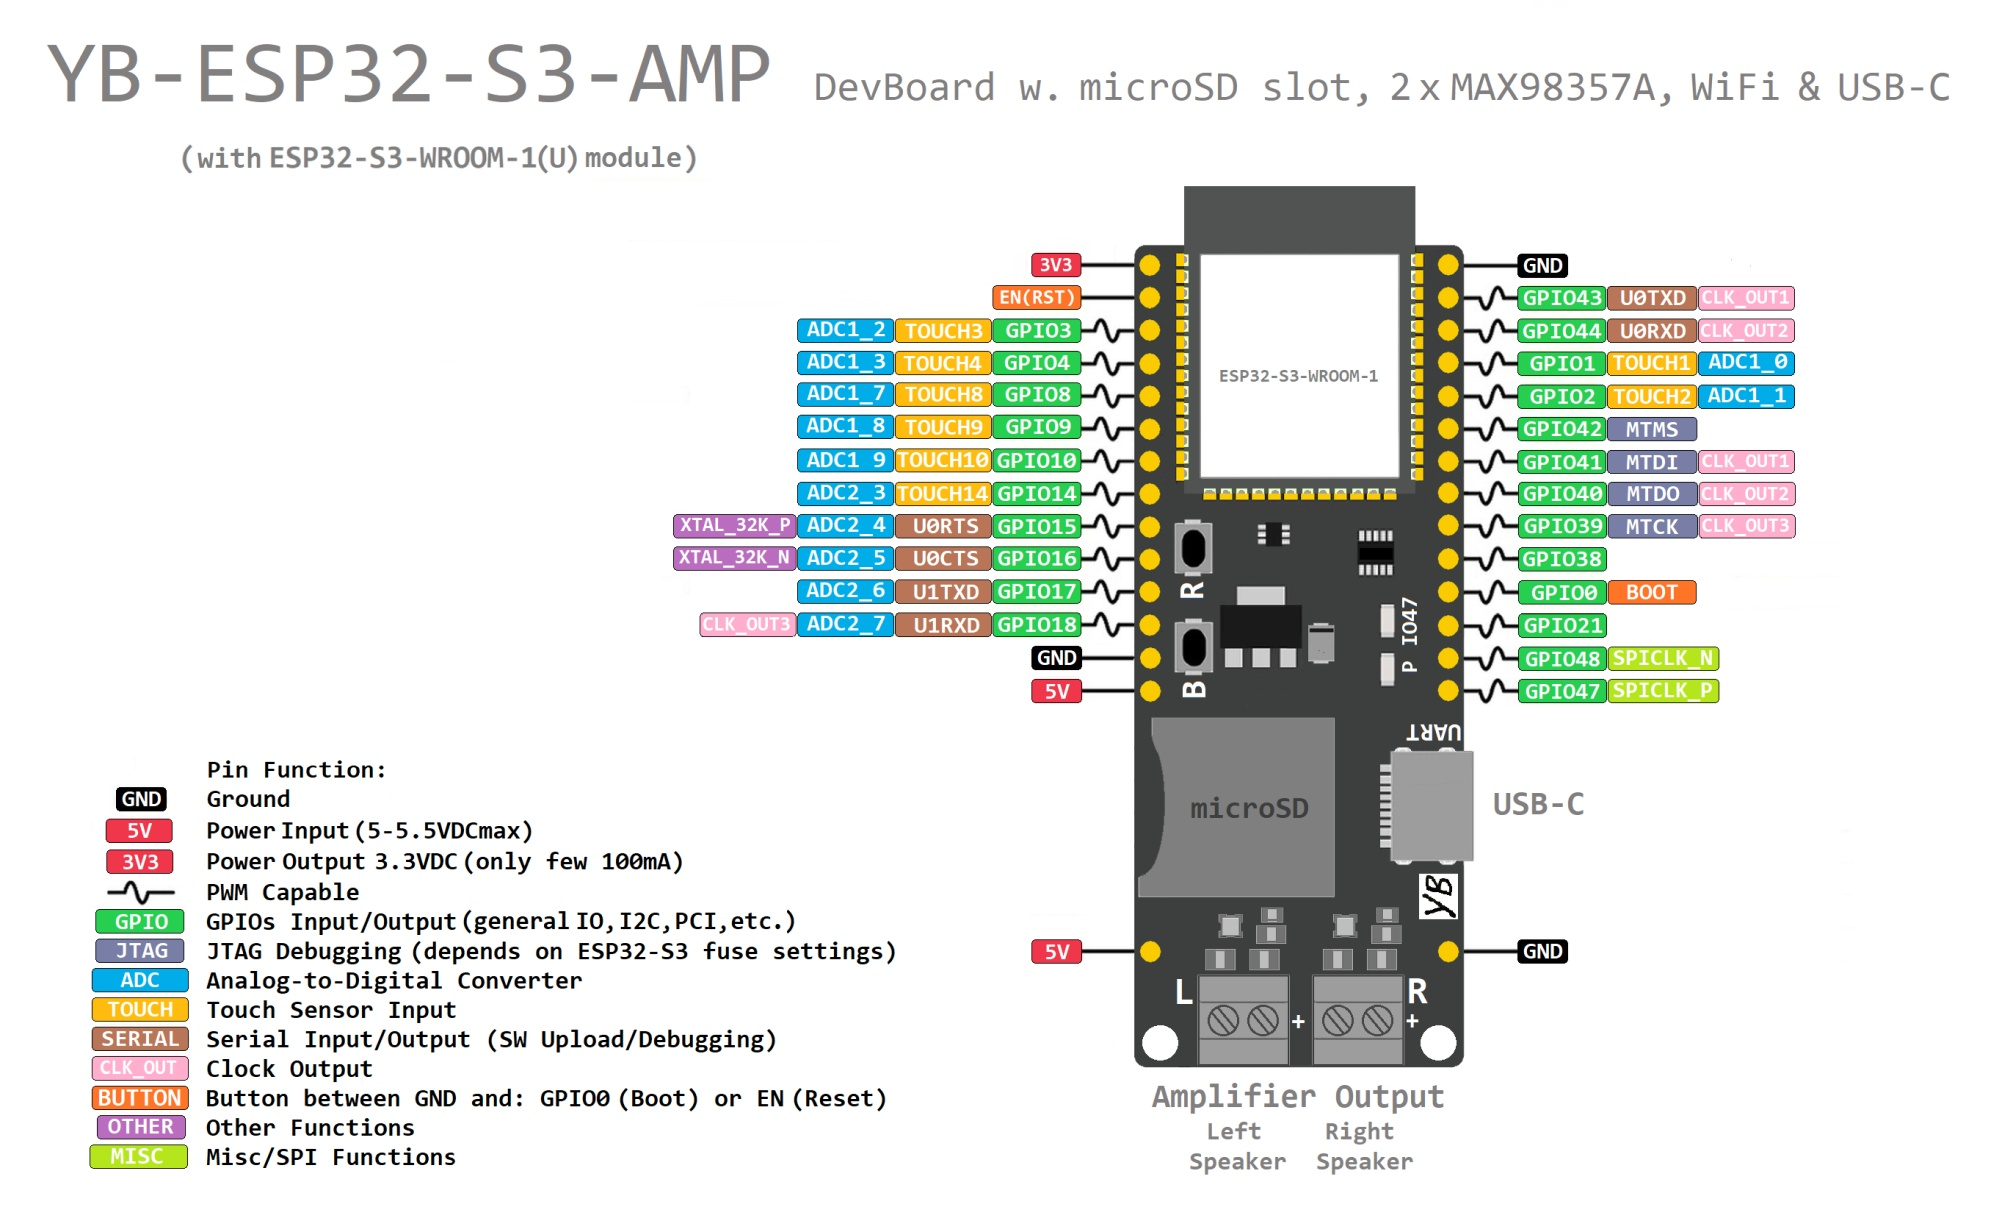
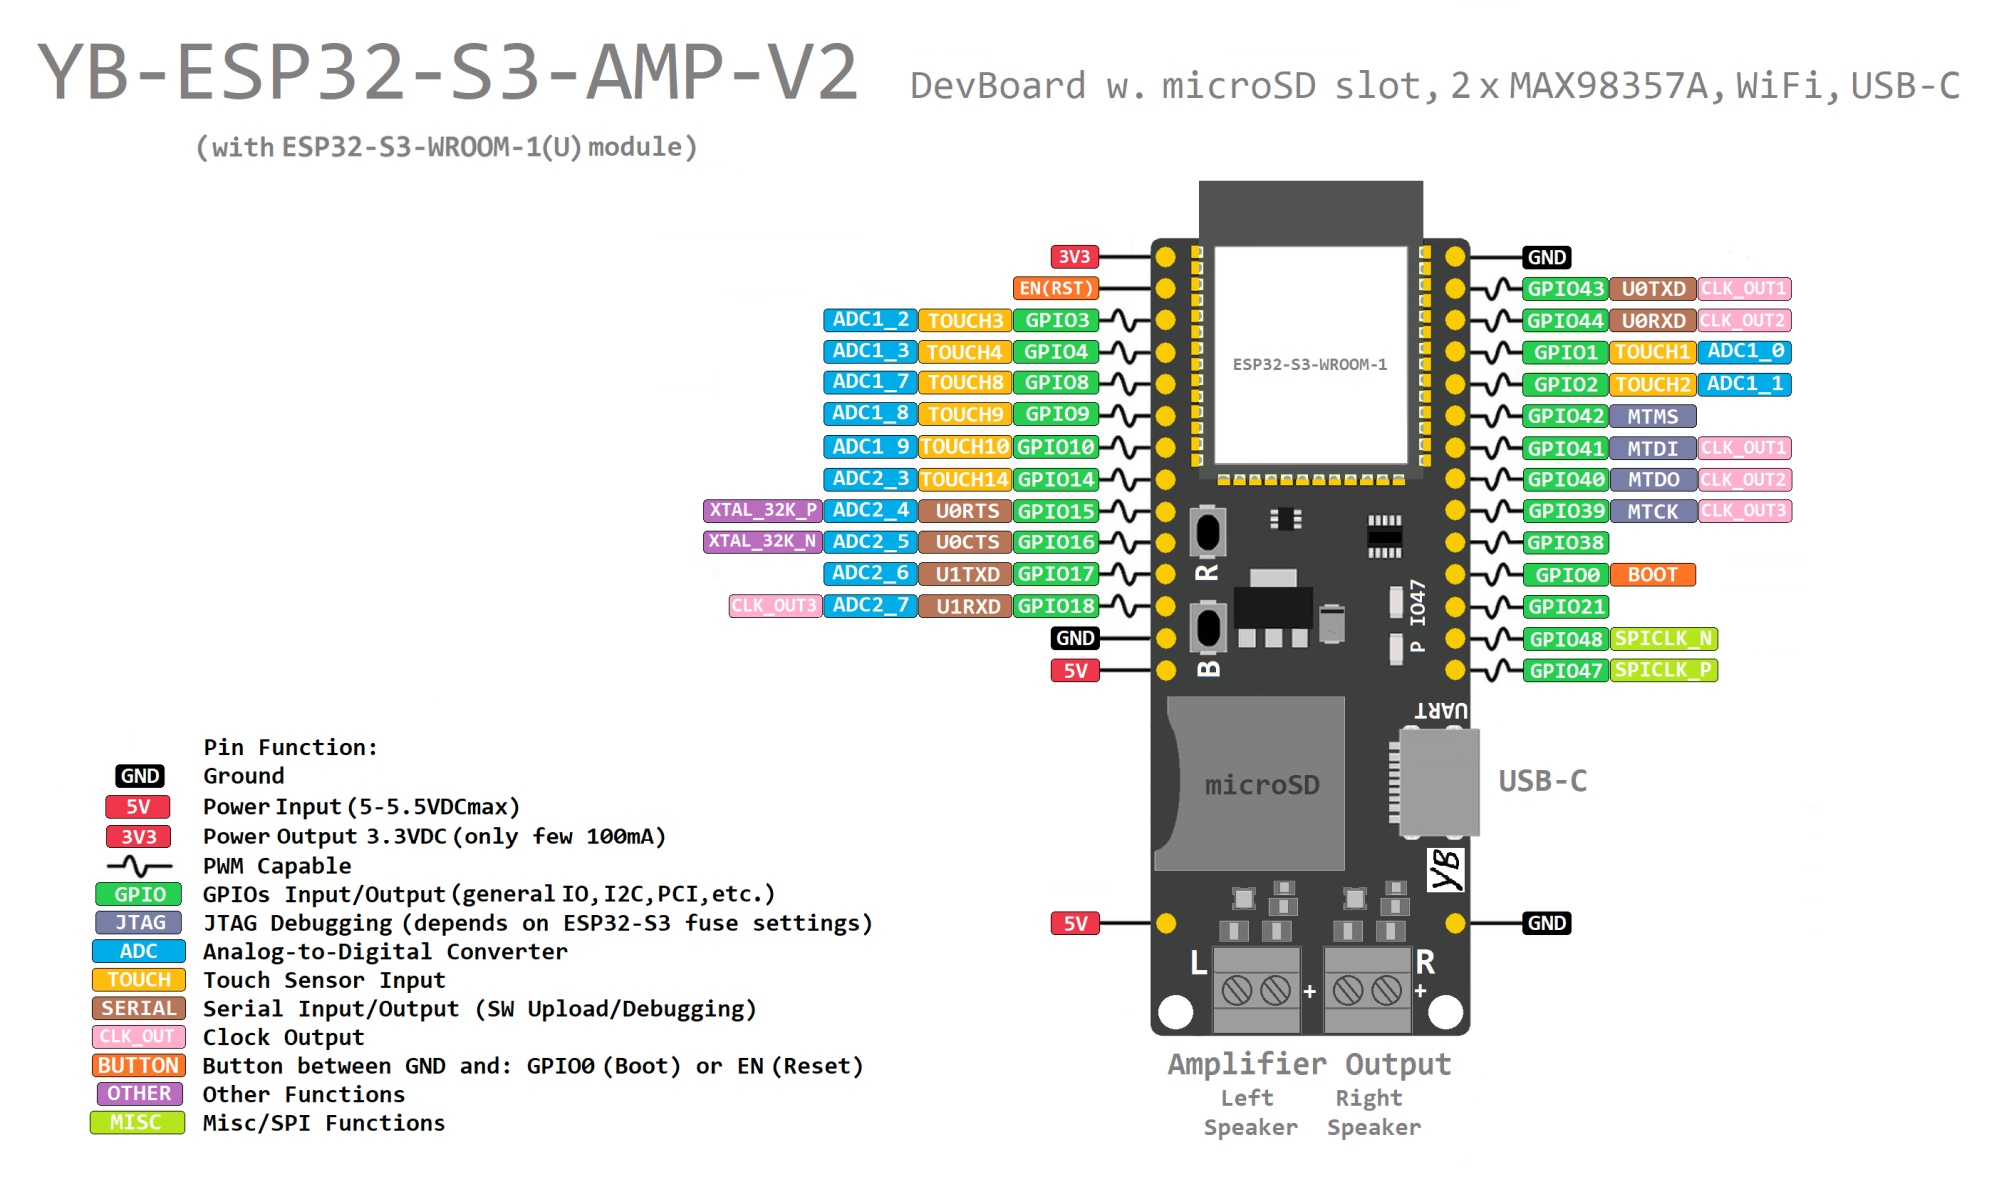
Readme.md updated

Changed region(s): [[0.31, 0.1555, 0.899, 0.9639], [0.031, 0.6218, 0.434, 0.9639], [0.0, 0.0311, 0.992, 0.1555]]

diff --git a/boards/YB-ESP32-S3-AMP/Readme.md b/boards/YB-ESP32-S3-AMP/Readme.md
@@ -60,7 +60,7 @@ Each audio channel can produce max. 3.2W output power at 4 Ohms. If your project
 ![](https://github.com/yellobyte/ESP32-DevBoards-Getting-Started/raw/main/boards/YB-ESP32-S3-AMP/doc/YB-ESP32-S3-AMP_recommended_wiring.jpg)
 
 ## Application hints: 
-The board uses the popular WCH CH340X bridge chip between USB-C port and the ESP32-S3. If you plan to use the USB port then you need to install the CH340X Drivers on your Laptop/PC. For Windows go [here](https://www.wch-ic.com/search?t=all&q=ch341) and select the newest version of the driver installer 'CH341SER.EXE'. 
+Revision 2.x of the board (YB-ESP32-S3-AMP-V2) uses the popular WCH CH340X bridge chip between USB-C port and the ESP32-S3. If you plan to use the USB port then you need to install the CH340X Drivers on your Laptop/PC. For Windows go [here](https://www.wch-ic.com/search?t=all&q=ch341) and select the newest version of the driver installer 'CH341SER.EXE'. 
 
 ### Arduino IDE:
 Select the board "**ESP32S3 Dev Module**" and choose the proper settings as shown below. Be aware, since the ESP32-S3 MCU is very versatile there are a lot of build options to play with. Espressif's homapage offers some help as well.
